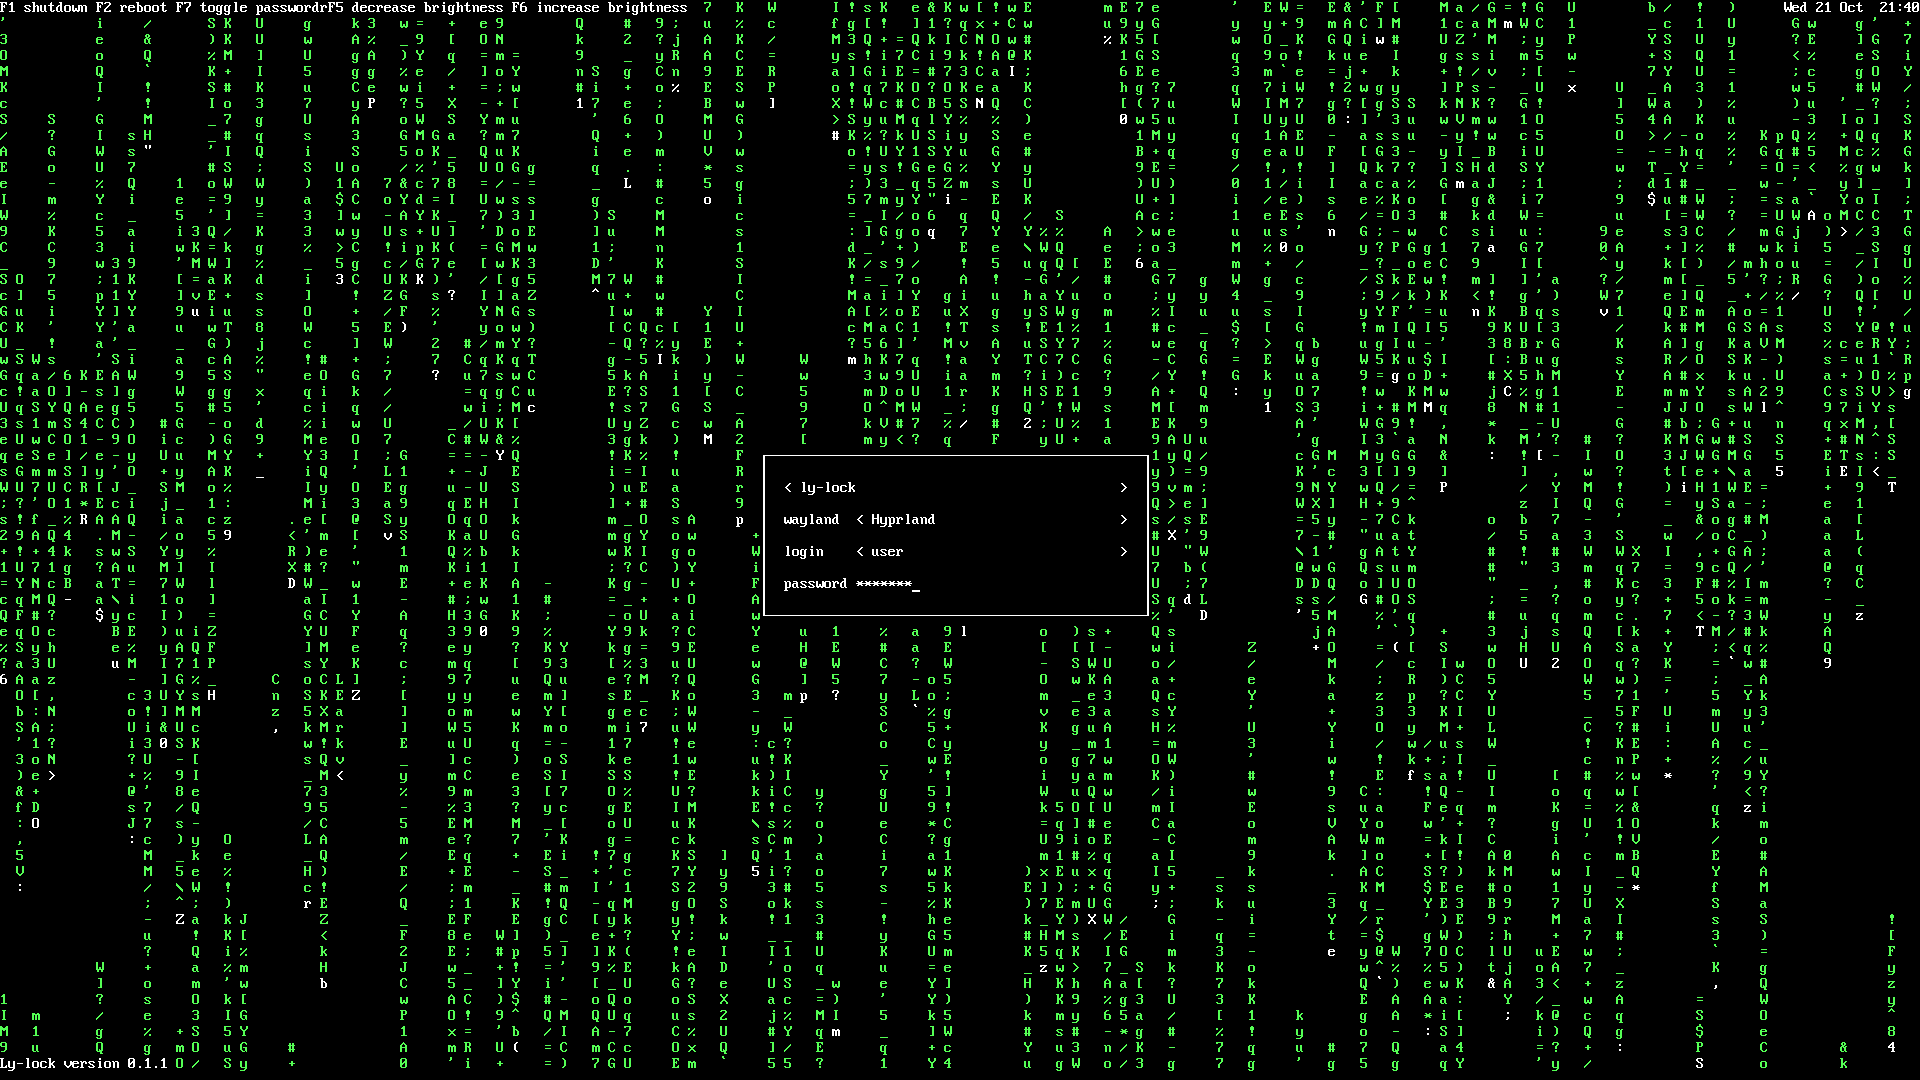
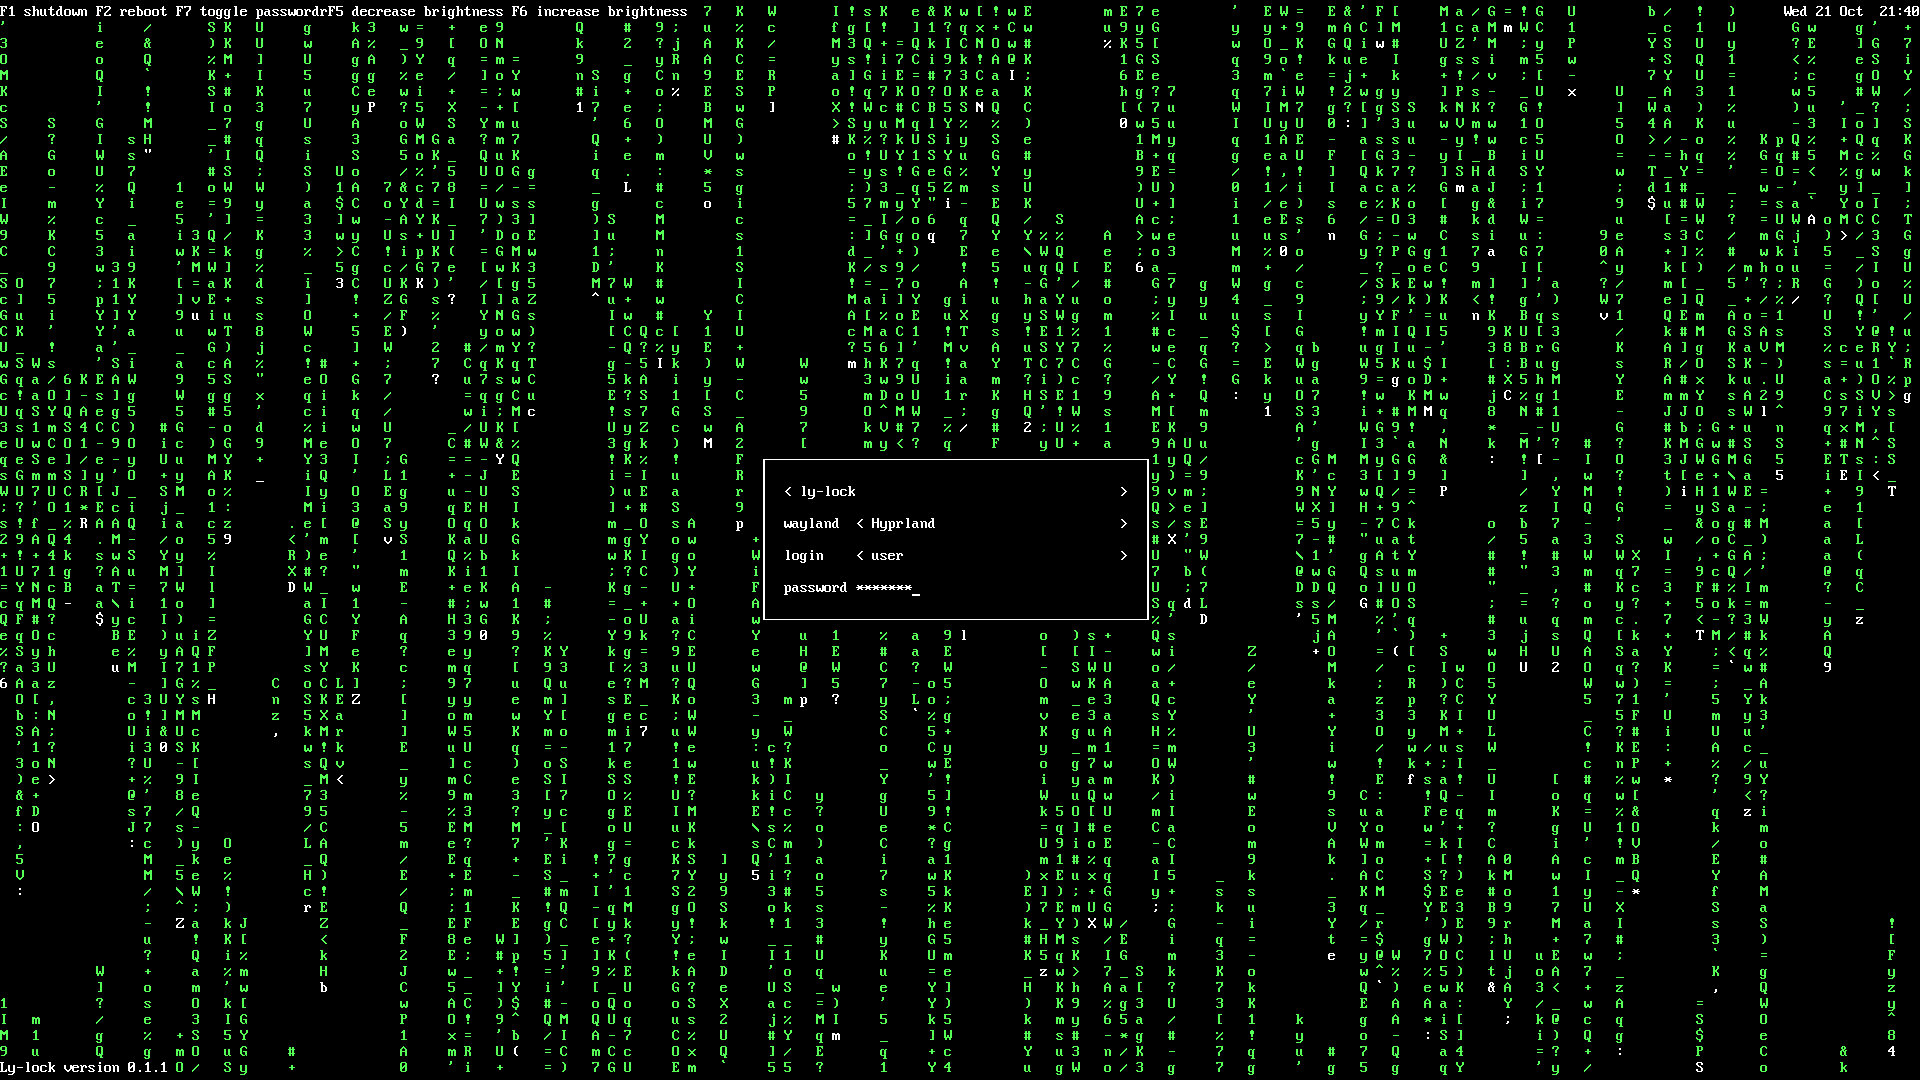
[Feat]: Center the cell grid with a topleft option

diff --git a/ly_lock/app.py b/ly_lock/app.py
@@ -254,19 +254,19 @@ class View:
         # Milliseconds per monitor refresh.
         self.period = 1000 / 60
         if app.use_gl:
-            self.gl = GLRenderer(app.font, app.palette)
+            self.gl = GLRenderer(app.font, app.palette, app.center)
             self.renderer = None
             self.area = GLCanvas(self)
         else:
             self.gl = None
-            self.renderer = Renderer(app.font, app.palette)
+            self.renderer = Renderer(app.font, app.palette, app.center)
             self.area = Canvas(self)
 
     def use_cpu(self):
         """Swap the GL widget for the CPU one after GL failed to start."""
         old = self.area
         self.gl = None
-        self.renderer = Renderer(self.font, self.app.palette)
+        self.renderer = Renderer(self.font, self.app.palette, self.app.center)
         self.area = Canvas(self)
         self.size = (0, 0)
         root = old.get_root()
@@ -387,6 +387,7 @@ class App:
         self.colors = ColorModel(config.full_color)
         self.font = Font(find_font())
         self.palette = read_palette()
+        self.center = args.align != "topleft"
         self.use_gl = GLRenderer is not None and os.environ.get("LY_LOCK_RENDERER") != "cpu"
         if self.use_gl:
             # A GLArea under GTK's Vulkan renderer pays for a GL to Vulkan
@@ -746,6 +747,12 @@ def main(argv=None):
         "--preview",
         action="store_true",
         help="show the lock screen in a normal window without locking",
+    )
+    parser.add_argument(
+        "--align",
+        choices=("center", "topleft"),
+        default=os.environ.get("LY_LOCK_ALIGN", "center"),
+        help="where the cell grid sits when it does not fill the screen (default: center)",
     )
     parser.add_argument("-v", "--version", action="version", version=f"ly-lock {__version__}")
     args = parser.parse_args(argv)

diff --git a/ly_lock/glrender.py b/ly_lock/glrender.py
@@ -32,14 +32,15 @@ uniform sampler2D cells;
 uniform vec3 palette[16];
 uniform ivec2 cell_size;
 uniform ivec2 grid;
+uniform ivec2 origin;
 uniform int height_px;
 uniform int cursor_rows;
 out vec4 color;
 
 void main() {
-    ivec2 p = ivec2(int(gl_FragCoord.x), height_px - 1 - int(gl_FragCoord.y));
+    ivec2 p = ivec2(int(gl_FragCoord.x), height_px - 1 - int(gl_FragCoord.y)) - origin;
     ivec2 c = p / cell_size;
-    if (c.x >= grid.x || c.y >= grid.y) {
+    if (p.x < 0 || p.y < 0 || c.x >= grid.x || c.y >= grid.y) {
         color = vec4(0.0, 0.0, 0.0, 1.0);
         return;
     }
@@ -60,8 +61,9 @@ void main() {
 class GLRenderer:
     """Draws a Buffer inside a Gtk.GLArea's render callback."""
 
-    def __init__(self, font, palette):
+    def __init__(self, font, palette, center=True):
         self.font = font
+        self.center = center
         self.palette = np.array(palette, dtype=np.float32).reshape(16, 3) / 255.0
         self.cursor_rows = 1 if font.height < 10 else 2
         self.cells = None
@@ -148,6 +150,12 @@ class GLRenderer:
         GL.glUniform2i(GL.glGetUniformLocation(p, "cell_size"), self.font.width, self.font.height)
         rows, cols = self.cells.shape[:2]
         GL.glUniform2i(GL.glGetUniformLocation(p, "grid"), cols, rows)
+        # Place the grid like the CPU renderer does.
+        top = left = 0
+        if self.center:
+            left = (width_px - cols * self.font.width) // 2
+            top = (height_px - rows * self.font.height) // 2
+        GL.glUniform2i(GL.glGetUniformLocation(p, "origin"), left, top)
         GL.glUniform1i(GL.glGetUniformLocation(p, "height_px"), height_px)
         GL.glUniform1i(GL.glGetUniformLocation(p, "cursor_rows"), self.cursor_rows)
         GL.glBindVertexArray(self.vao)

diff --git a/ly_lock/render.py b/ly_lock/render.py
@@ -8,8 +8,9 @@ import numpy as np
 
 
 class Renderer:
-    def __init__(self, font, palette):
+    def __init__(self, font, palette, center=True):
         self.font = font
+        self.center = center
         # 0xFFRRGGBB: B, G, R, X bytes in memory on little-endian machines.
         self.colors = np.array(
             [0xFF000000 | (r << 16) | (g << 8) | b for r, g, b in palette],
@@ -46,6 +47,8 @@ class Renderer:
         """Draw every row of buf that changed since the last call.
 
         pixels is a (height, width) uint32 array at least the grid's size.
+        The grid sits in its center, so the leftover pixels split evenly
+        between the edges. Without center it sits in the top left like fbcon.
         cursor is the (x, y) cell showing the cursor, or None.
         Returns True if anything was drawn.
         """
@@ -71,7 +74,11 @@ class Renderer:
         uniq, inverse = np.unique(keys[y_rows], return_inverse=True)
         lut = np.fromiter((self.tile(int(k)) for k in uniq), dtype=np.int64, count=len(uniq))
         idx = lut[inverse.reshape(len(y_rows), cols)]
+        top = left = 0
+        if self.center:
+            h, w = pixels.shape
+            top, left = (h - rows * fh) // 2, (w - cols * fw) // 2
         # (rows, fh, cols, fw) view of the grid's pixels.
-        grid = pixels[: rows * fh, : cols * fw].reshape(rows, fh, cols, fw)
+        grid = pixels[top : top + rows * fh, left : left + cols * fw].reshape(rows, fh, cols, fw)
         grid[y_rows] = self.tiles[idx].transpose(0, 2, 1, 3)
         return True

diff --git a/tests/test_render.py b/tests/test_render.py
@@ -1,0 +1,40 @@
+import struct
+
+import numpy as np
+import pytest
+from helpers import make_buffer
+
+from ly_lock.console import Font
+from ly_lock.render import Renderer
+
+BLACK, WHITE = 0xFF000000, 0xFFFFFFFF
+PALETTE = [(0, 0, 0), (255, 255, 255)] + [(0, 0, 0)] * 14
+
+
+@pytest.fixture
+def block_font(tmp_path):
+    """An 8x16 font whose only glyph is a solid block."""
+    header = struct.pack("<8I", 0x864AB572, 0, 32, 1, 1, 16, 16, 8)
+    path = tmp_path / "block.psfu"
+    path.write_bytes(header + b"\xff" * 16 + b"A" + b"\xff")
+    return Font(str(path))
+
+
+def lit(block_font, center):
+    """Bounds of the lit pixels after drawing a 2x2 grid of blocks on 20x40."""
+    buf = make_buffer(2, 2)
+    buf.ch[:] = ord("A")
+    buf.fg[:], buf.bg[:] = 1, 0
+    pixels = np.full((40, 20), BLACK, dtype=np.uint32)
+    Renderer(block_font, PALETTE, center).render(buf, pixels)
+    ys, xs = np.nonzero(pixels == WHITE)
+    return ys.min(), ys.max(), xs.min(), xs.max()
+
+
+def test_grid_is_centered(block_font):
+    # 4 pixels spare across and 8 down.
+    assert lit(block_font, True) == (4, 35, 2, 17)
+
+
+def test_grid_pinned_top_left(block_font):
+    assert lit(block_font, False) == (0, 31, 0, 15)

diff --git a/README.md b/README.md
@@ -87,11 +87,13 @@ Options:
 
 - `-c`, `--config FILE`: read a different ly config. The default is `/etc/ly/config.ini`.
 - `--preview`: show the lock screen in a normal window without locking. Unlocking closes the window.
+- `--align center|topleft`: place the cell grid when the screen is not a whole number of cells. `center` splits the leftover pixels between the edges. `topleft` leaves them on the right and bottom like a real tty. The default is `center`.
 
 Environment:
 
 - `LY_LOCK_FONT`: path to a PSF console font to use instead of the one in `/etc/vconsole.conf`.
 - `LY_LOCK_RENDERER=cpu`: draw on the CPU instead of with OpenGL.
+- `LY_LOCK_ALIGN`: the default for `--align`.
 
 ## If it crashes
 
